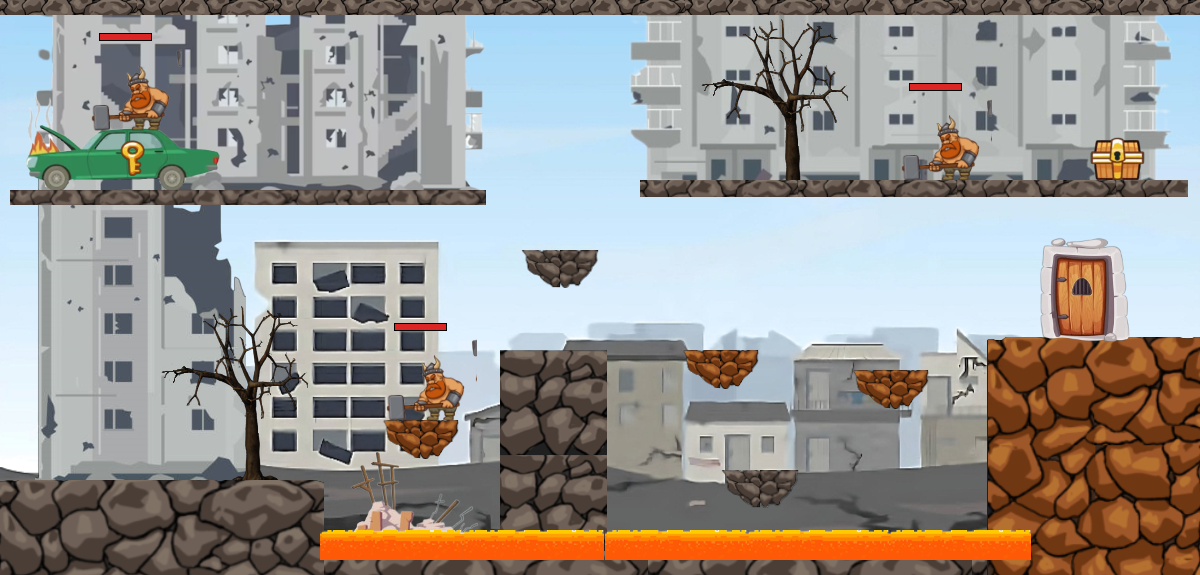
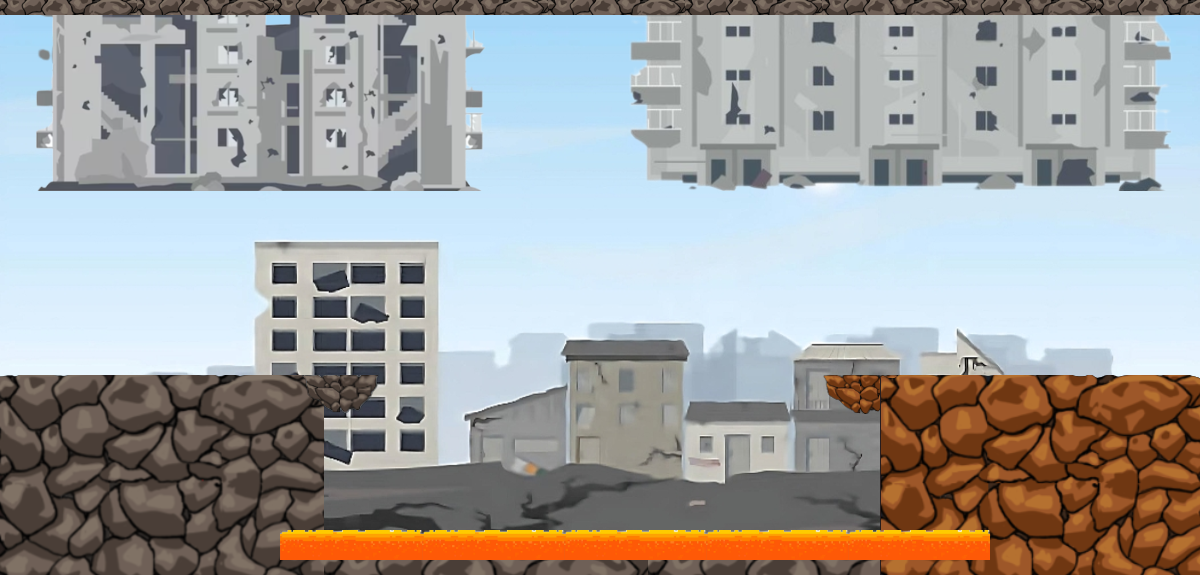
fix(enginerea): redesign autonomous combat arena with clean lava chasm duel, unobstructed projectile flight lines, and authentic impact physics

diff --git a/src/pages/EnginereaProject.tsx b/src/pages/EnginereaProject.tsx
@@ -165,6 +165,28 @@ function AutonomousCombatArena() {
     setStep(0);
   };
 
+  // Keyboard shortcut triggers for Space (chuck axe) and ArrowUp (jump)
+  useEffect(() => {
+    const handleKeyDown = (e: KeyboardEvent) => {
+      if (
+        e.target instanceof HTMLInputElement ||
+        e.target instanceof HTMLTextAreaElement ||
+        (e.target as HTMLElement)?.isContentEditable
+      ) {
+        return;
+      }
+      if (e.code === "Space") {
+        e.preventDefault();
+        triggerManualThrow();
+      } else if (e.code === "ArrowUp") {
+        e.preventDefault();
+        triggerManualJump();
+      }
+    };
+    window.addEventListener("keydown", handleKeyDown);
+    return () => window.removeEventListener("keydown", handleKeyDown);
+  }, []);
+
   return (
     <div className="editorial-card p-6 md:p-8 space-y-6 overflow-hidden relative">
       {/* Header with Circling Axe Showcase */}
@@ -274,16 +296,14 @@ function AutonomousCombatArena() {
         <motion.div
           animate={
             step === 0
-              ? { left: toX(150), top: toY(380) }
+              ? { left: toX(120), top: toY(315), scaleX: 1 }
               : step === 1
-              ? { left: toX(300), top: toY(270) }
-              : step === 2 || step === 3
-              ? { left: toX(360), top: toY(380) }
-              : step === 4
-              ? { left: toX(360), top: toY(380) }
-              : { left: toX(60), top: toY(380) }
+              ? { left: toX(260), top: toY(220), scaleX: 1 }
+              : step === 2 || step === 3 || step === 4
+              ? { left: toX(320), top: toY(315), scaleX: 1 }
+              : { left: toX(80), top: toY(315), scaleX: -1 }
           }
-          transition={{ duration: 0.9, ease: "easeInOut" }}
+          transition={{ duration: 0.8, ease: "easeInOut" }}
           style={{ width: toW(74), height: toH(60) }}
           className="absolute z-20 flex flex-col items-center pointer-events-none"
         >
@@ -304,13 +324,13 @@ function AutonomousCombatArena() {
         <AnimatePresence>
           {(step === 2 || step === 3 || step === 4) && (
             <motion.div
-              initial={{ left: toX(410), top: toY(390), opacity: 1, scale: 0.8 }}
+              initial={{ left: toX(365), top: toY(335), opacity: 1, scale: 0.9 }}
               animate={
                 step === 2
-                  ? { left: toX(680), top: toY(370), rotate: 720 }
+                  ? { left: toX(590), top: toY(335), rotate: 720 }
                   : step === 3
-                  ? { left: toX(690), top: toY(365), rotate: 1080 }
-                  : { left: toX(860), top: toY(310), rotate: 1440, opacity: 0 }
+                  ? { left: toX(860), top: toY(325), rotate: 1440 }
+                  : { left: toX(880), top: toY(320), rotate: 1800, opacity: 0 }
               }
               exit={{ opacity: 0 }}
               transition={{ duration: 0.7, ease: "linear" }}
@@ -328,17 +348,21 @@ function AutonomousCombatArena() {
 
         {/* ==================== ENEMY ROCK PROJECTILE ==================== */}
         <AnimatePresence>
-          {step === 2 && (
+          {(step === 2 || step === 3) && (
             <motion.div
-              initial={{ left: toX(850), top: toY(330), opacity: 1 }}
-              animate={{ left: toX(680), top: toY(370), rotate: -360 }}
+              initial={{ left: toX(860), top: toY(330), opacity: 1, rotate: 0 }}
+              animate={
+                step === 2
+                  ? { left: toX(610), top: toY(335), rotate: -360 }
+                  : { left: toX(640), top: toY(520), rotate: -720, opacity: 0 }
+              }
               exit={{ opacity: 0, scale: 0 }}
               transition={{ duration: 0.7, ease: "linear" }}
               style={{ width: toW(20), height: toH(20) }}
               className="absolute z-25 pointer-events-none drop-shadow-[0_0_8px_rgba(239,68,68,0.8)]"
             >
               <img
-                src="/images/projects/enginerea/rockthrow.png"
+                src="/images/projects/enginerea/rock_single.png"
                 alt="Enemy Rock"
                 className="w-full h-full object-contain"
               />
@@ -351,23 +375,23 @@ function AutonomousCombatArena() {
           {isDeflecting && (
             <motion.div
               initial={{ scale: 0.4, opacity: 0 }}
-              animate={{ scale: [1, 1.4, 1], opacity: 1 }}
+              animate={{ scale: [1, 1.35, 1], opacity: 1 }}
               exit={{ opacity: 0, scale: 0.5 }}
               transition={{ duration: 0.4 }}
-              style={{ left: toX(670), top: toY(350) }}
+              style={{ left: toX(550), top: toY(305) }}
               className="absolute z-35 flex items-center justify-center pointer-events-none"
             >
-              <div className="absolute w-12 h-12 rounded-full bg-amber-400/40 animate-ping" />
-              <div className="relative px-2 py-0.5 rounded bg-black/90 border border-amber-400 text-[11px] font-mono font-extrabold text-amber-300 shadow-[0_0_15px_rgba(245,158,11,1)]">
+              <div className="absolute w-14 h-14 rounded-full bg-amber-400/40 animate-ping" />
+              <div className="relative px-2.5 py-1 rounded bg-black/95 border border-amber-400 text-xs font-mono font-extrabold text-amber-300 shadow-[0_0_20px_rgba(245,158,11,1)]">
                 ⚡ DEFLECTED!
               </div>
             </motion.div>
           )}
         </AnimatePresence>
 
-        {/* ==================== ENEMY PATROL GOBLIN (855, 284) ==================== */}
+        {/* ==================== ENEMY PATROL GOBLIN (860, 285) ==================== */}
         <div
-          style={{ left: toX(855), top: toY(284), width: toW(74), height: toH(90) }}
+          style={{ left: toX(860), top: toY(285), width: toW(74), height: toH(90) }}
           className="absolute z-20 flex flex-col items-center pointer-events-none"
         >
           {/* Health Bar */}
@@ -381,10 +405,10 @@ function AutonomousCombatArena() {
           <motion.div
             animate={
               isHit
-                ? { x: [0, 10, -6, 0], filter: ["brightness(1)", "brightness(2.8)", "brightness(1)"] }
-                : { y: [0, -2, 0] }
+                ? { x: [0, 14, -8, 4, 0], filter: ["brightness(1)", "brightness(3)", "brightness(1)"] }
+                : { y: [0, -3, 0] }
             }
-            transition={isHit ? { duration: 0.3 } : { repeat: Infinity, duration: 1.6, ease: "easeInOut" }}
+            transition={isHit ? { duration: 0.35 } : { repeat: Infinity, duration: 1.6, ease: "easeInOut" }}
             className="relative w-full h-full"
           >
             <img
@@ -396,8 +420,8 @@ function AutonomousCombatArena() {
             {/* Floating Damage Number */}
             {isHit && (
               <motion.span
-                initial={{ opacity: 1, y: 0 }}
-                animate={{ opacity: 0, y: -30 }}
+                initial={{ opacity: 1, y: 0, scale: 1.2 }}
+                animate={{ opacity: 0, y: -32, scale: 1 }}
                 transition={{ duration: 0.7 }}
                 className="absolute -top-5 left-1 text-xs font-mono font-extrabold text-amber-300 drop-shadow-[0_2px_4px_rgba(0,0,0,1)]"
               >
@@ -411,13 +435,13 @@ function AutonomousCombatArena() {
         <AnimatePresence>
           {showCoinPop && (
             <motion.div
-              initial={{ left: toX(870), top: toY(310), opacity: 1 }}
-              animate={{ left: toX(50), top: toY(20), opacity: [1, 1, 0] }}
+              initial={{ left: toX(860), top: toY(300), opacity: 1, scale: 0.8 }}
+              animate={{ left: toX(120), top: toY(18), opacity: [1, 1, 0], scale: [0.8, 1.2, 0.9] }}
               transition={{ duration: 0.9, ease: "easeInOut" }}
-              className="absolute z-40 pointer-events-none flex items-center gap-1"
+              className="absolute z-40 pointer-events-none flex items-center gap-1.5"
             >
               <img src="/images/projects/enginerea/coin.png" alt="Coin" className="w-5 h-5 animate-spin" />
-              <span className="text-[11px] font-mono font-bold text-amber-300 drop-shadow-md">+15 G</span>
+              <span className="text-xs font-mono font-bold text-amber-300 drop-shadow-md">+15 G</span>
             </motion.div>
           )}
         </AnimatePresence>

diff --git a/scripts/render_exact_game_scenes.py b/scripts/render_exact_game_scenes.py
@@ -27,6 +27,15 @@ def draw_health_bar(draw, x, y, hp_pct=1.0, width=50, height=6):
     if active_w > 0:
         draw.rectangle([x, y, x + active_w, y + height], fill=(220, 38, 38, 255))
 
+def extract_single_rock():
+    p = os.path.join(dest_dir, "rockthrow.png")
+    if os.path.exists(p):
+        im = Image.open(p)
+        f0 = im.crop((0, 0, 20, 20))
+        out_p = os.path.join(dest_dir, "rock_single.png")
+        f0.save(out_p, "PNG")
+        print(f"Extracted single rock to {out_p}")
+
 # -------------------------------------------------------------
 # 1. SCENE START MENU
 # -------------------------------------------------------------
@@ -107,6 +116,52 @@ def build_stage_1(with_bobby=True, out_name="scene_stage_1.png"):
             continue
         paste_img(canvas, "enemy1_frame.png", (ex, ey))
         draw_health_bar(draw, ex + 10, ey - 10, 1.0, 50, 5)
+
+    out_p = os.path.join(dest_dir, out_name)
+    canvas.convert("RGB").save(out_p, "PNG", quality=95)
+    print(f"Saved {out_p}")
+
+# -------------------------------------------------------------
+# 2B. SCENE AUTONOMOUS ARENA BACKDROP (CLEAN CHASM DUEL)
+# -------------------------------------------------------------
+def build_arena_backdrop(out_name="scene_arena_backdrop.png"):
+    """
+    Renders an uncluttered, cinematic combat arena across a central lava chasm:
+    - Authentic background skyline (lvl1_bg.png)
+    - Atmospheric ruined skyscrapers in background (destroyedbuilding4.png, destroyedbuilding2.png)
+    - Top border flat stones
+    - Left battle platform at y ~ 375 for Bobby (largebrownstone.png + brownplatform.png)
+    - Right battle platform at y ~ 375 for Enemy Goblin (orangeplatform.png + largeorangestone.png)
+    - Center lava chasm (x ~ 380 to 820) with bubbling lava at y ~ 530 and bedrock below
+    - ZERO clutter: NO static goblins, NO car, NO chest, NO door, NO dead tree, NO middle pillar!
+    """
+    canvas = Image.new("RGBA", (1200, 575), (0, 0, 0, 255))
+    bg = Image.open(os.path.join(dest_dir, "lvl1_bg.png")).convert("RGBA")
+    canvas.paste(bg.resize((1200, 575)), (0, 0))
+
+    # Atmospheric background skyscrapers (distant layer)
+    paste_img(canvas, "destroyedbuilding4.png", (30, -209))
+    paste_img(canvas, "destroyedbuilding2.png", (625, -135))
+
+    # Top border flat stones
+    for bx in range(0, 1200, 137):
+        paste_img(canvas, "brownflatplatform.png", (bx, 0))
+
+    # Dark volcanic bedrock beneath the lava pit
+    paste_img(canvas, "largebrownstone.png", (324, 550))
+    paste_img(canvas, "largebrownstone.png", (648, 550))
+
+    # Left battle platform at y = 375 for Bobby (solid stone terrain + overhanging ledge)
+    paste_img(canvas, "largebrownstone.png", (0, 375))
+    paste_img(canvas, "brownplatform.png", (300, 375))
+
+    # Right battle platform at y = 375 for Enemy Goblin
+    paste_img(canvas, "orangeplatform.png", (820, 375))
+    paste_img(canvas, "largeorangestone.png", (880, 375))
+
+    # Lava pool across center chasm floor
+    for lx in [280, 422, 564, 706, 848]:
+        paste_img(canvas, "lava.png", (lx, 530))
 
     out_p = os.path.join(dest_dir, out_name)
     canvas.convert("RGB").save(out_p, "PNG", quality=95)
@@ -317,11 +372,13 @@ def build_victory_and_death():
     print(f"Saved {out_d}")
 
 if __name__ == "__main__":
-    build_start_menu()
+    extract_single_rock()
     build_stage_1(with_bobby=True, out_name="scene_stage_1.png")
-    build_stage_1(with_bobby=False, out_name="scene_arena_backdrop.png")
-    build_stage_2()
-    build_stage_3()
-    build_shop()
-    build_victory_and_death()
+    build_arena_backdrop(out_name="scene_arena_backdrop.png")
+    if os.path.exists(fonts_dir):
+        build_start_menu()
+        build_stage_2()
+        build_stage_3()
+        build_shop()
+        build_victory_and_death()
     print("ALL SCENES RE-RENDERED WITH 100% PYGAME FIDELITY!")
